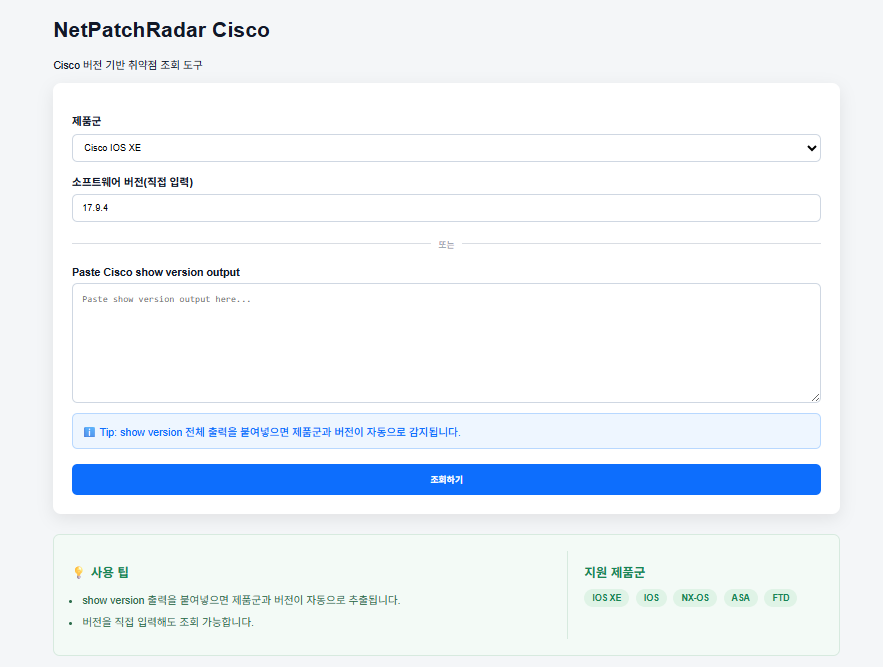
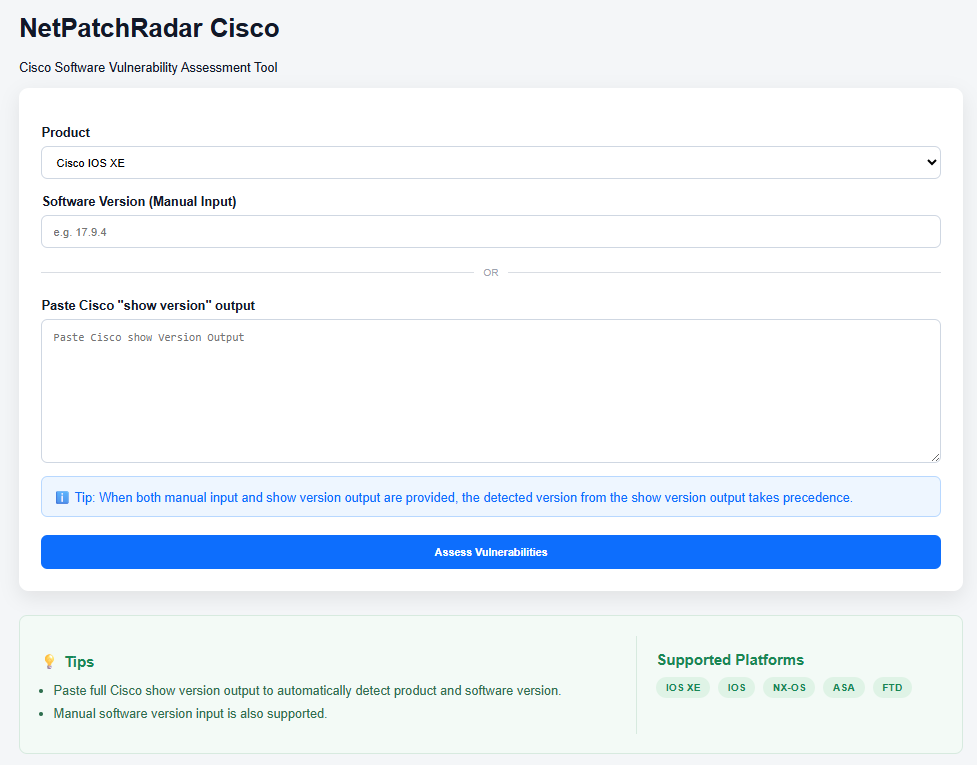
Update README

diff --git a/README.md b/README.md
@@ -36,20 +36,13 @@ NetPatchRadar Cisco automates this workflow and provides results within seconds.
 - Show Version Parser
 - Automatic Product Detection
 - Automatic Version Detection
+
 ---
 
 ## Screenshots
 
 ### Example-1
 ![Example-1](screenshots/dashboard1.png)
-![Example-1](screenshots/dashboard2.png)
-
-### Example-2
-![Example-2](screenshots/dashboard3.png)
-![Example-2](screenshots/dashboard4.png)
-
-### PDF Report
-![PDF Report](screenshots/pdf-report.png)
 
 ---
 